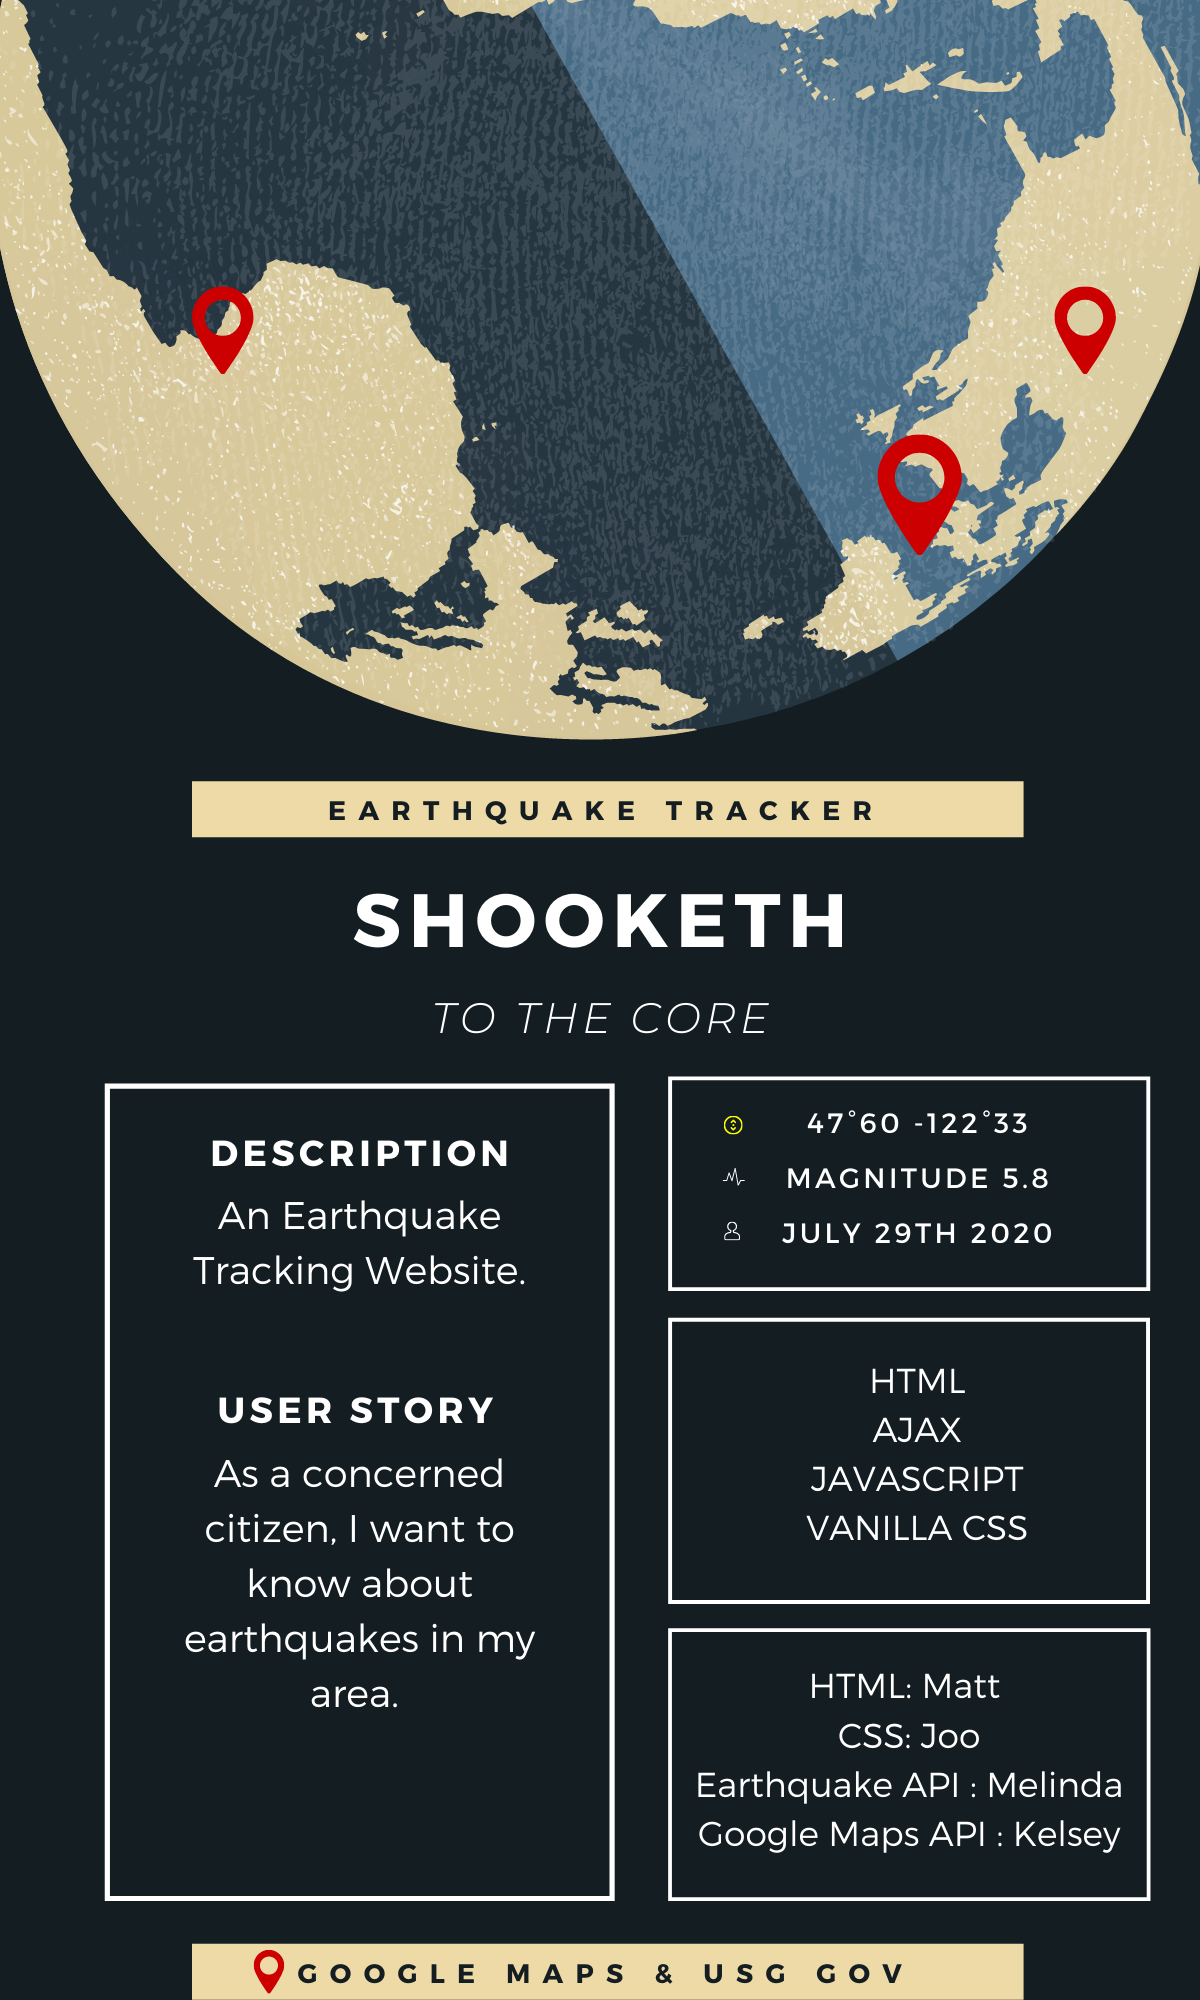
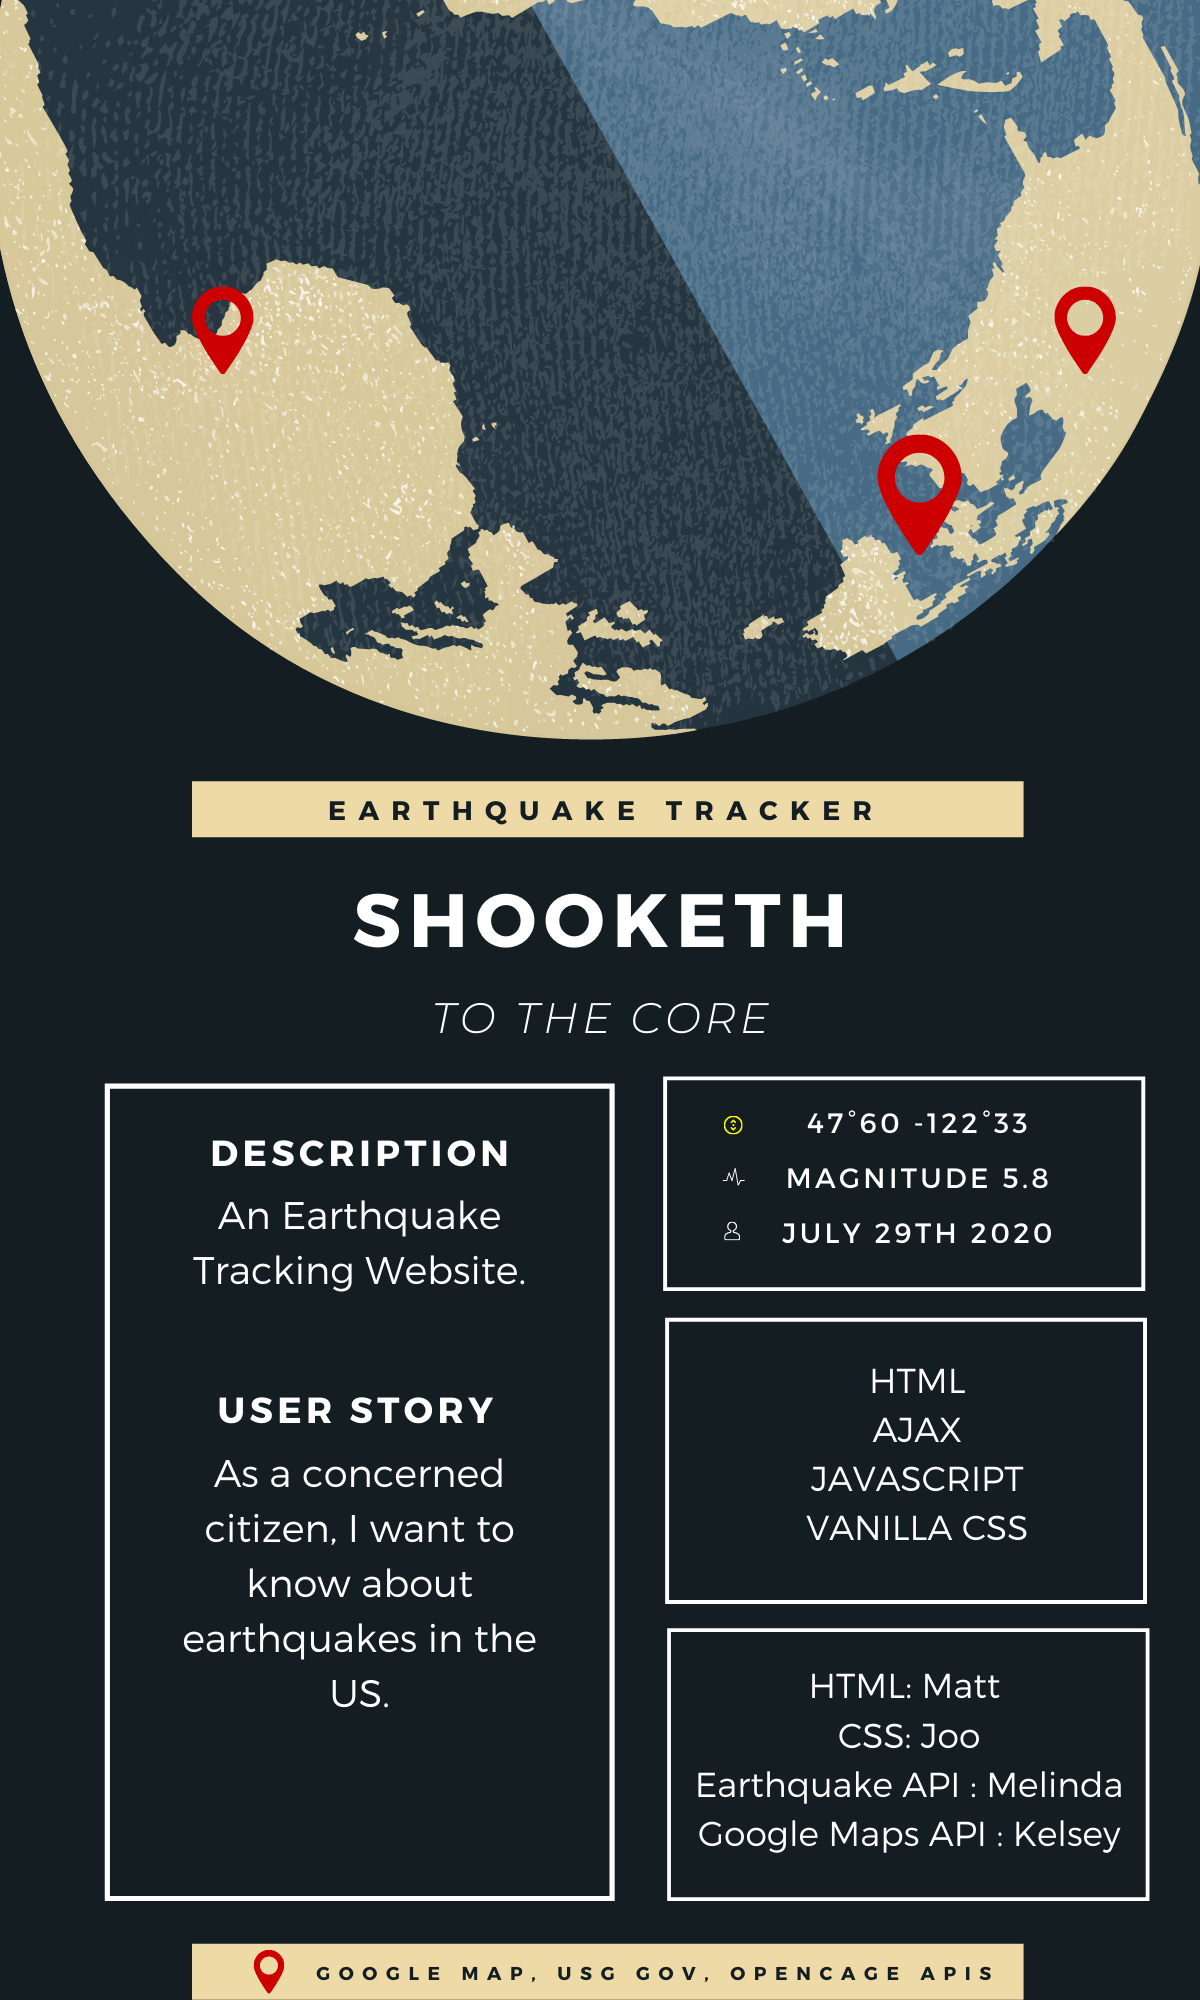
Updated readme and updated presentation page

diff --git a/assets/js/kelseyscript.js b/assets/js/kelseyscript.js
@@ -31,12 +31,14 @@ function printDailyQuakes(event) {
         var coords = event.detail[i].coords;
         var text = 'Most Recent Rumbles - Location: ' + event.detail[i].place + ' Magnitude: ' + event.detail[i].mag + '' + ' Date: ' + event.detail[i].time + ' ';
         var latLng = new google.maps.LatLng(coords[1], coords[0]);
+        map = new google.maps.Map(document.getElementById('map'), {
+            zoom: 3,
+            center: new google.maps.LatLng(event.detail[i].coords[1], event.detail[i].coords[0]),
+            mapTypeId: 'terrain'
+        });
         var marker = new google.maps.Marker({
             position: latLng,
             map: map,
-            zoom: 4,
-            center: latLng,
-            mapTypeId: 'terrain',
             icon: pinSymbol("#1AC8DB")
         });
 
@@ -57,6 +59,10 @@ function printQuakesBySearch(event) {
         var coords = event.detail[i].coords;
         var text = 'Searched Rumbles - Location: ' + event.detail[i].place + ' Magnitude: ' + event.detail[i].mag + '' + ' Date: ' + event.detail[i].time + ' ';
         var latLng = new google.maps.LatLng(coords[1], coords[0]);
+        map = new google.maps.Map(document.getElementById('map'), {
+            zoom: 3,
+            center: new google.maps.LatLng(event.detail[i].coords[1], event.detail[i].coords[0]),
+            mapTypeId: 'terrain'});
         var marker = new google.maps.Marker({
             position: latLng,
             map: map,

diff --git a/README.md b/README.md
@@ -4,17 +4,21 @@ The Earthquake Tracker is our first group project in the bootcamp.
 
 The requirements to succeed were the following: 
 
-1.) Must use at least 2 server side APIs
-2.) Must not use Bootstrap framework
+1.) Must use at least 2 server side APIs.
+
+2.) Must not use the Bootstrap framework.
+
 3.) The website must be interactive and respond to user input. 
-4.) The website must be polished
-5.) The code must meet good quality standards
+
+4.) The website must be polished.
+
+5.) The code must meet good quality standards.
+
 6.) The website cannot use alerts, prompts or confirms. 
 
-We created an interactive website to help concerned citizens see where earthquakes are happening. 
-As a user, they can see 5 earthquakes that have occurred in the last hour. The user can also see earthquakes in a region that they select, by using the input box. 
+We created an interactive website to help concerned citizens see where earthquakes are happening in the US. As a user, they can see 5 earthquakes that have occurred in the last hour. The user can also see earthquakes in a region that they select, by using the input box. 
 
-We utilized the usgs.gov, the google maps and the opencage geocoding APIs to pull and display earthquake data in the US. 
+We utilized the usgs.gov, google maps and opencage geocoding APIs to pull and display earthquake data. 
 
 Matt W. and Joo H. designed the HTML and CSS, allowing for a clean and polished interface. 
 Melinda I. and Kelsey J. created the earthquake, the google maps and the opencage geocoding API integrations that power the website.
